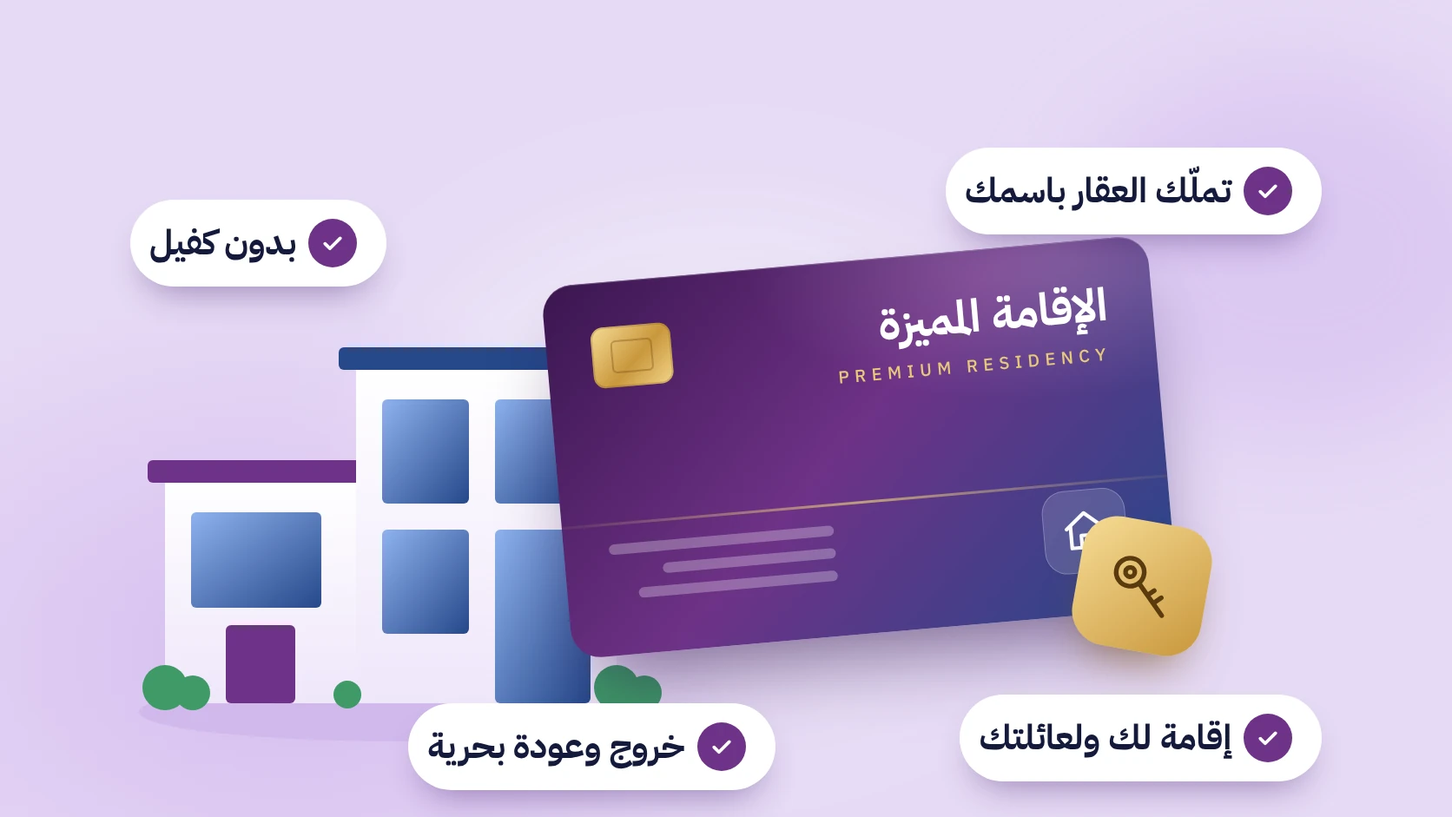
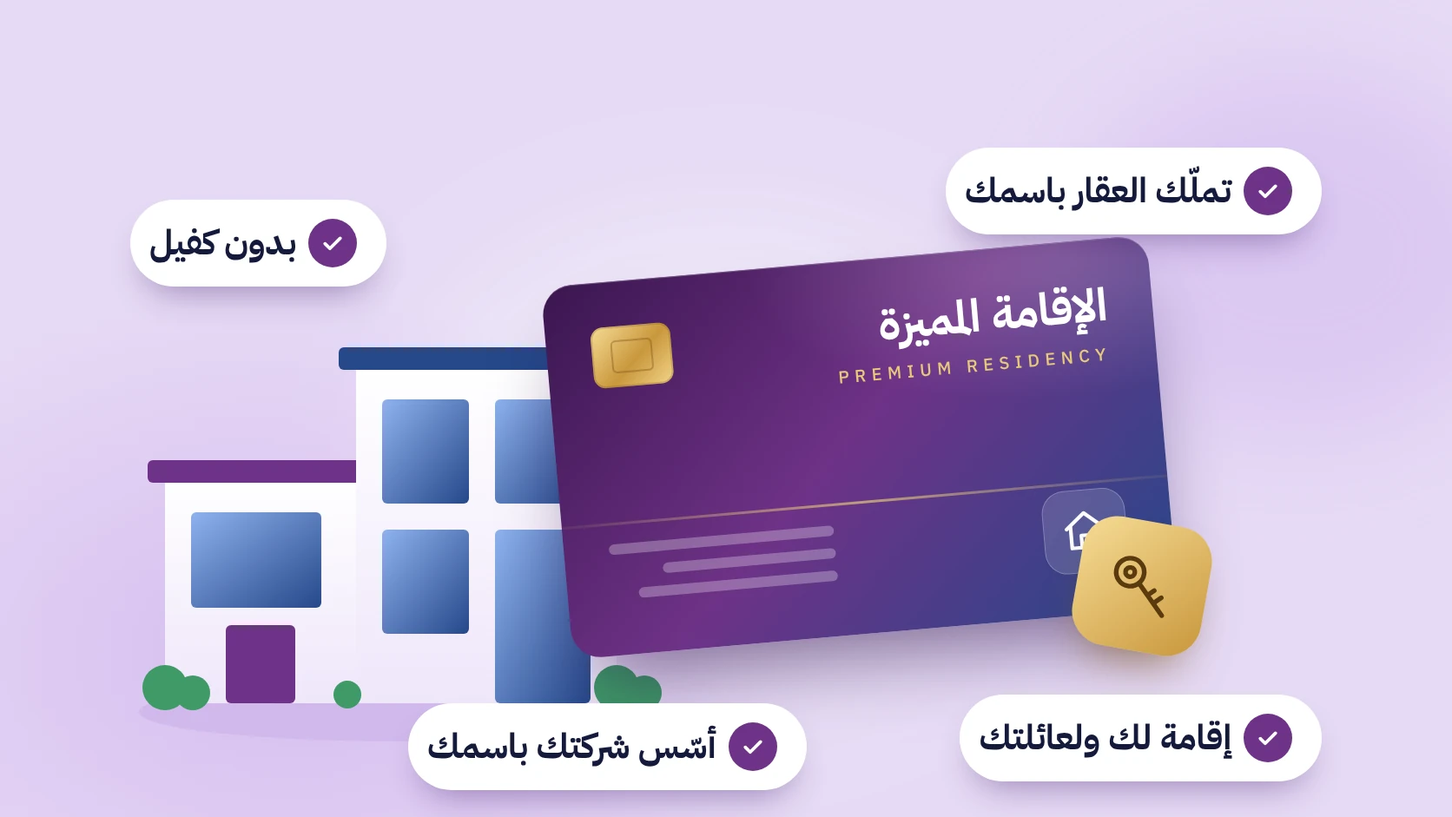
Premium Residency page: property ownership and company formation as residency benefits
Claude-Session: https://claude.ai/code/session_01NBvG3p8pHLfApGAyQMSkQa

Changed region(s): [[0.2799, 0.8629, 0.5598, 0.9862]]

diff --git a/pr/index.html b/pr/index.html
@@ -13,7 +13,7 @@ j=d.createElement(s),dl=l!='dataLayer'?'&l='+l:'';j.async=true;j.src=
 <title>الإقامة المميزة في السعودية لك ولعائلتك بدون كفيل | مرسى الأعمال</title>
 <link rel="preload" as="image" href="../assets/img/hero-1600.webp" media="(min-width:721px)" fetchpriority="high">
 <link rel="preload" as="image" href="../assets/img/hero-mobile.webp" media="(max-width:720px)" fetchpriority="high">
-<meta name="description" content="احصل على الإقامة المميزة في السعودية لك ولعائلتك: بدون كفيل، إعفاء من المقابل المالي للمرافقين، خروج وعودة بحرية، وتملّك العقار باسمك. تحقّق من أهليتك مجانًا.">
+<meta name="description" content="احصل على الإقامة المميزة في السعودية لك ولعائلتك: بدون كفيل، إعفاء من المقابل المالي للمرافقين، خروج وعودة بحرية، وتملّك العقار وتأسيس شركتك باسمك. تحقّق من أهليتك مجانًا.">
 <meta name="theme-color" content="#26488A">
 <link rel="icon" href="../assets/img/fav.png">
 <link rel="preconnect" href="https://fonts.googleapis.com">
@@ -781,7 +781,7 @@ body.bar-on .wa-float{opacity:1;visibility:visible;transform:none}
 @media (max-width:1000px){.pr-grid{grid-template-columns:repeat(2,minmax(0,1fr))}}
 @media (max-width:720px){.pr-grid{grid-template-columns:minmax(0,1fr);gap:12px}}
 </style>
-<script type="application/ld+json">{"@context": "https://schema.org", "@type": "FAQPage", "mainEntity": [{"@type": "Question", "name": "ما هي الإقامة المميزة في السعودية؟", "acceptedAnswer": {"@type": "Answer", "text": "نظام إقامة يمنح المقيم وعائلته الإقامة في المملكة دون كفيل، مع مزايا مثل الإعفاء من المقابل المالي للمرافقين، والخروج والعودة دون تأشيرة، وحق تملّك العقار."}}, {"@type": "Question", "name": "ما الفرق بينها وبين الإقامة العادية؟", "acceptedAnswer": {"@type": "Answer", "text": "في الإقامة العادية تحتاج إلى كفيل، وتدفع المقابل المالي عن مرافقيك، وتستخرج تأشيرة خروج وعودة لكل سفرة. أما الإقامة المميزة فتعفيك من كل ذلك، وتمنحك حرية تغيير العمل وتملّك العقار باسمك."}}, {"@type": "Question", "name": "ما مسارات الإقامة المميزة المتاحة؟", "acceptedAnswer": {"@type": "Answer", "text": "من أبرزها: إقامة مالك العقار، والإقامة غير محددة المدة (الدائمة)، والإقامة محددة المدة، إضافة إلى مسارات المستثمر ورائد الأعمال والكفاءات. يحدد مستشارك المسار الأنسب لك."}}, {"@type": "Question", "name": "هل يمكنني الحصول على الإقامة عبر شراء عقار؟", "acceptedAnswer": {"@type": "Answer", "text": "نعم، عبر مسار إقامة مالك العقار، بشرط أن يكون العقار سكنيًا مطوّرًا بقيمة لا تقل عن 4 ملايين ريال، غير مرهون، ومقيّمًا من مقيّم معتمد. وتستمر الإقامة ما دمت مالكًا للعقار."}}, {"@type": "Question", "name": "كم رسوم الإقامة المميزة؟", "acceptedAnswer": {"@type": "Answer", "text": "تختلف حسب المسار: 800 ألف ريال لمرة واحدة للإقامة غير محددة المدة، أو 100 ألف ريال سنويًا للإقامة محددة المدة، وقرابة 4 آلاف ريال لمسار مالك العقار، وفق آخر ما أعلنه مركز الإقامة المميزة."}}, {"@type": "Question", "name": "هل تشمل الإقامة أفراد عائلتي؟", "acceptedAnswer": {"@type": "Answer", "text": "نعم. تشمل الزوج/الزوجة والأبناء دون 25 عامًا والوالدين، وفق الشروط المعمول بها."}}, {"@type": "Question", "name": "هل يمكنني البدء وأنا خارج السعودية؟", "acceptedAnswer": {"@type": "Answer", "text": "نعم. نقيّم أهليتك عن بُعد من أي دولة، ونوضح لك المسار والمستندات المطلوبة قبل أي التزام."}}, {"@type": "Question", "name": "هل الموافقة مضمونة؟", "acceptedAnswer": {"@type": "Answer", "text": "قرار الموافقة لدى مركز الإقامة المميزة. دورنا أن نقيّم أهليتك بدقة، ونجهز ملفًا مكتملًا، ونتابعه حتى صدور القرار."}}]}</script>
+<script type="application/ld+json">{"@context": "https://schema.org", "@type": "FAQPage", "mainEntity": [{"@type": "Question", "name": "ما هي الإقامة المميزة في السعودية؟", "acceptedAnswer": {"@type": "Answer", "text": "نظام إقامة يمنح المقيم وعائلته الإقامة في المملكة دون كفيل، مع مزايا مثل الإعفاء من المقابل المالي للمرافقين، والخروج والعودة دون تأشيرة، وحق تملّك العقار."}}, {"@type": "Question", "name": "ما الفرق بينها وبين الإقامة العادية؟", "acceptedAnswer": {"@type": "Answer", "text": "في الإقامة العادية تحتاج إلى كفيل، وتدفع المقابل المالي عن مرافقيك، وتستخرج تأشيرة خروج وعودة لكل سفرة. أما الإقامة المميزة فتعفيك من كل ذلك، وتمنحك حرية تغيير العمل وتملّك العقار باسمك."}}, {"@type": "Question", "name": "ما مسارات الإقامة المميزة المتاحة؟", "acceptedAnswer": {"@type": "Answer", "text": "من أبرزها: إقامة مالك العقار، والإقامة غير محددة المدة (الدائمة)، والإقامة محددة المدة، إضافة إلى مسارات المستثمر ورائد الأعمال والكفاءات. يحدد مستشارك المسار الأنسب لك."}}, {"@type": "Question", "name": "هل يمكنني تملّك العقار بالإقامة المميزة؟", "acceptedAnswer": {"@type": "Answer", "text": "نعم. من أهم مزايا الإقامة المميزة حق تملّك العقار والانتفاع به في المملكة باسمك، وفق الأنظمة والمناطق المسموح بها."}}, {"@type": "Question", "name": "هل يمكنني تأسيس شركة بالإقامة المميزة؟", "acceptedAnswer": {"@type": "Answer", "text": "نعم. تمنحك الإقامة المميزة حق ممارسة الأعمال والاستثمار في المملكة وفق نظام الاستثمار، دون كفيل. ونساعدك في تأسيس شركتك بعد حصولك على الإقامة."}}, {"@type": "Question", "name": "كم رسوم الإقامة المميزة؟", "acceptedAnswer": {"@type": "Answer", "text": "تختلف حسب المسار: 800 ألف ريال لمرة واحدة للإقامة غير محددة المدة، أو 100 ألف ريال سنويًا للإقامة محددة المدة، وقرابة 4 آلاف ريال لمسار مالك العقار، وفق آخر ما أعلنه مركز الإقامة المميزة."}}, {"@type": "Question", "name": "هل تشمل الإقامة أفراد عائلتي؟", "acceptedAnswer": {"@type": "Answer", "text": "نعم. تشمل الزوج/الزوجة والأبناء دون 25 عامًا والوالدين، وفق الشروط المعمول بها."}}, {"@type": "Question", "name": "هل يمكنني البدء وأنا خارج السعودية؟", "acceptedAnswer": {"@type": "Answer", "text": "نعم. نقيّم أهليتك عن بُعد من أي دولة، ونوضح لك المسار والمستندات المطلوبة قبل أي التزام."}}, {"@type": "Question", "name": "هل الموافقة مضمونة؟", "acceptedAnswer": {"@type": "Answer", "text": "قرار الموافقة لدى مركز الإقامة المميزة. دورنا أن نقيّم أهليتك بدقة، ونجهز ملفًا مكتملًا، ونتابعه حتى صدور القرار."}}]}</script>
 </head>
 <body>
 <!-- Google Tag Manager (noscript) -->
@@ -823,7 +823,7 @@ height="0" width="0" style="display:none;visibility:hidden"></iframe></noscript>
       <span class="logo-img u-logo" role="img" aria-label="مرسى الأعمال Business Harbor"></span>
     </a>
     <nav class="nav" aria-label="روابط الصفحة">
-      <a href="#why">إقامة العقار</a>
+      <a href="#why">التملّك والأعمال</a>
       <a href="#steps">خطوات الإقامة</a>
       <a href="#stories">تجارب العملاء</a>
       <a href="#faq">الأسئلة الشائعة</a>
@@ -842,7 +842,7 @@ height="0" width="0" style="display:none;visibility:hidden"></iframe></noscript>
     <button class="close-btn" id="menuClose" type="button" aria-label="إغلاق القائمة"><svg class="ic"><use href="#i-close"/></svg></button>
   </div>
   <nav class="mnav-links" aria-label="روابط الصفحة">
-    <a href="#why">إقامة العقار <svg class="ic"><use href="#i-arr"/></svg></a>
+    <a href="#why">التملّك والأعمال <svg class="ic"><use href="#i-arr"/></svg></a>
     <a href="#steps">خطوات الإقامة <svg class="ic"><use href="#i-arr"/></svg></a>
     <a href="#stories">تجارب العملاء <svg class="ic"><use href="#i-arr"/></svg></a>
     <a href="#faq">الأسئلة الشائعة <svg class="ic"><use href="#i-arr"/></svg></a>
@@ -865,7 +865,7 @@ height="0" width="0" style="display:none;visibility:hidden"></iframe></noscript>
     <div class="wrap hero-in">
       <div class="hero-copy">
         <h1 id="hero-t" class="h-in a2"><span class="hero-top"><em class="hl hero-hl">حصريًا لكبار المستثمرين</em></span>انقل استثمارك إلى السعودية<span>واحصل على الإقامة المميزة</span></h1>
-        <p class="hero-desc h-in a3">إقامة لك ولعائلتك بدون كفيل، مع حق تملّك العقارات باسمك.</p>
+        <p class="hero-desc h-in a3">إقامة لك ولعائلتك بدون كفيل، مع حق تملّك العقار وتأسيس شركتك باسمك.</p>
         <div class="hero-ctas h-in a4">
           <a class="btn btn-cta js-cta" href="#" data-target="#hero-form"><svg class="ic wa-ic" viewBox="0 0 24 24"><use href="#i-wa"/></svg><span>تحقّق من أهليتك</span></a>
         </div>
@@ -911,7 +911,7 @@ height="0" width="0" style="display:none;visibility:hidden"></iframe></noscript>
       <h2 class="h2 rv d1" id="ess-t">الإقامة العادية <span class="hl">أم الإقامة المميزة؟</span></h2>
       <p class="lead rv d2">قارن بنفسك، وتعرّف على ما لن تحتاجه بعد اليوم.</p>
     </div>
-    <div class="cmp rv d2"><div class="cmp-r cmp-h"><div class="cmp-k"></div><div class="cmp-n">الإقامة العادية</div><div class="cmp-p">الإقامة المميزة</div></div><div class="cmp-r"><div class="cmp-k">الكفيل</div><div class="cmp-n"><span class="mk">&times;</span>تحتاج إلى كفيل</div><div class="cmp-p"><span class="mk"><svg class="ic"><use href="#i-check"/></svg></span>لا كفيل، أنت كفيل نفسك</div></div><div class="cmp-r"><div class="cmp-k">المقابل المالي للمرافقين</div><div class="cmp-n"><span class="mk">&times;</span>رسوم شهرية عن كل مرافق</div><div class="cmp-p"><span class="mk"><svg class="ic"><use href="#i-check"/></svg></span>معفى منه بالكامل</div></div><div class="cmp-r"><div class="cmp-k">السفر</div><div class="cmp-n"><span class="mk">&times;</span>تأشيرة خروج وعودة لكل سفرة</div><div class="cmp-p"><span class="mk"><svg class="ic"><use href="#i-check"/></svg></span>خروج وعودة دون تأشيرة</div></div><div class="cmp-r"><div class="cmp-k">تغيير العمل</div><div class="cmp-n"><span class="mk">&times;</span>يتطلب نقل الكفالة</div><div class="cmp-p"><span class="mk"><svg class="ic"><use href="#i-check"/></svg></span>حرية التنقل بين جهات العمل</div></div><div class="cmp-r"><div class="cmp-k">تملّك العقار</div><div class="cmp-n"><span class="mk">&times;</span>محدود وبشروط</div><div class="cmp-p"><span class="mk"><svg class="ic"><use href="#i-check"/></svg></span>تملّك العقار باسمك</div></div><div class="cmp-r"><div class="cmp-k">التجديد</div><div class="cmp-n"><span class="mk">&times;</span>تجديد دوري للإقامة</div><div class="cmp-p"><span class="mk"><svg class="ic"><use href="#i-check"/></svg></span>إقامة دائمة دون تجديد في المسار الدائم</div></div></div>
+    <div class="cmp rv d2"><div class="cmp-r cmp-h"><div class="cmp-k"></div><div class="cmp-n">الإقامة العادية</div><div class="cmp-p">الإقامة المميزة</div></div><div class="cmp-r"><div class="cmp-k">الكفيل</div><div class="cmp-n"><span class="mk">&times;</span>تحتاج إلى كفيل</div><div class="cmp-p"><span class="mk"><svg class="ic"><use href="#i-check"/></svg></span>لا كفيل، أنت كفيل نفسك</div></div><div class="cmp-r"><div class="cmp-k">المقابل المالي للمرافقين</div><div class="cmp-n"><span class="mk">&times;</span>رسوم شهرية عن كل مرافق</div><div class="cmp-p"><span class="mk"><svg class="ic"><use href="#i-check"/></svg></span>معفى منه بالكامل</div></div><div class="cmp-r"><div class="cmp-k">السفر</div><div class="cmp-n"><span class="mk">&times;</span>تأشيرة خروج وعودة لكل سفرة</div><div class="cmp-p"><span class="mk"><svg class="ic"><use href="#i-check"/></svg></span>خروج وعودة دون تأشيرة</div></div><div class="cmp-r"><div class="cmp-k">تغيير العمل</div><div class="cmp-n"><span class="mk">&times;</span>يتطلب نقل الكفالة</div><div class="cmp-p"><span class="mk"><svg class="ic"><use href="#i-check"/></svg></span>حرية التنقل بين جهات العمل</div></div><div class="cmp-r"><div class="cmp-k">تملّك العقار</div><div class="cmp-n"><span class="mk">&times;</span>محدود وبشروط</div><div class="cmp-p"><span class="mk"><svg class="ic"><use href="#i-check"/></svg></span>تملّك العقار باسمك</div></div><div class="cmp-r"><div class="cmp-k">ممارسة الأعمال</div><div class="cmp-n"><span class="mk">&times;</span>غير متاحة بالإقامة وحدها</div><div class="cmp-p"><span class="mk"><svg class="ic"><use href="#i-check"/></svg></span>تأسيس شركتك وممارسة أعمالك</div></div><div class="cmp-r"><div class="cmp-k">التجديد</div><div class="cmp-n"><span class="mk">&times;</span>تجديد دوري للإقامة</div><div class="cmp-p"><span class="mk"><svg class="ic"><use href="#i-check"/></svg></span>إقامة دائمة دون تجديد في المسار الدائم</div></div></div>
     <p class="pr-note rv">* تختلف بعض المزايا حسب مسار الإقامة، ووفق اشتراطات مركز الإقامة المميزة التي قد يتم تحديثها.</p>
     <div class="pr-cta rv"><a class="btn btn-cta js-cta" href="#" data-target="#contact"><svg class="ic wa-ic" viewBox="0 0 24 24"><use href="#i-wa"/></svg><span>تحدّث مع مستشار</span></a></div>
   </div>
@@ -926,7 +926,7 @@ height="0" width="0" style="display:none;visibility:hidden"></iframe></noscript>
       <h2 class="h2 rv d1" id="ben-t">ماذا تمنحك <span class="hl">الإقامة المميزة</span>؟</h2>
       <p class="lead rv d2">أهم 4 مزايا تمنحها لك الإقامة المميزة، ولا تمنحها الإقامة العادية.</p>
     </div>
-    <div class="pr-grid"><div class="why-card rv d1"><span class="pr-ic"><svg class="ic"><use href="#i-award"/></svg></span><h3>إقامة بدون كفيل</h3><p>أنت كفيل نفسك، مع حرية التنقل بين جهات العمل.</p></div><div class="why-card rv d2"><span class="pr-ic"><svg class="ic"><use href="#i-shield"/></svg></span><h3>إعفاء من المقابل المالي</h3><p>لا رسوم وافدين عليك ولا على مرافقيك وتابعيك.</p></div><div class="why-card rv d3"><span class="pr-ic"><svg class="ic"><use href="#i-bld"/></svg></span><h3>تملّك العقار باسمك</h3><p>تملّك العقار السكني والانتفاع به باسمك مباشرة.</p></div><div class="why-card rv d4"><span class="pr-ic"><svg class="ic"><use href="#i-globe"/></svg></span><h3>سفر حر لك ولعائلتك</h3><p>خروج وعودة دون تأشيرة، واستخدام مسارات المواطنين في المطارات.</p></div></div>
+    <div class="pr-grid"><div class="why-card rv d1"><span class="pr-ic"><svg class="ic"><use href="#i-award"/></svg></span><h3>إقامة بدون كفيل</h3><p>أنت كفيل نفسك، مع حرية التنقل بين جهات العمل.</p></div><div class="why-card rv d2"><span class="pr-ic"><svg class="ic"><use href="#i-bld"/></svg></span><h3>تملّك العقار باسمك</h3><p>امتلك منزلك وعقاراتك في المملكة باسمك وانتفع بها.</p></div><div class="why-card rv d3"><span class="pr-ic"><svg class="ic"><use href="#i-trend"/></svg></span><h3>أسّس شركتك ومارس أعمالك</h3><p>حق ممارسة الأعمال والاستثمار في المملكة وفق نظام الاستثمار.</p></div><div class="why-card rv d4"><span class="pr-ic"><svg class="ic"><use href="#i-life"/></svg></span><h3>عائلتك معك بلا رسوم</h3><p>إقامة للزوج والأبناء والوالدين، مع الإعفاء من المقابل المالي للمرافقين.</p></div></div>
     <div class="pr-cta rv"><a class="btn btn-cta js-cta" href="#" data-target="#contact"><svg class="ic wa-ic" viewBox="0 0 24 24"><use href="#i-wa"/></svg><span>تحقّق من أهليتك</span></a></div>
   </div>
 </section>
@@ -955,22 +955,22 @@ height="0" width="0" style="display:none;visibility:hidden"></iframe></noscript>
 <section class="sec why" id="why" aria-labelledby="why-t">
   <div class="wrap">
     <div class="why-head">
-      <div><span class="eyebrow rv">إقامة مالك العقار</span><h2 class="h2 rv d1" id="why-t">عقارك طريقك إلى <span class="hl">الإقامة المميزة</span></h2></div>
-      <p class="lead rv d2">تملّك عقارًا سكنيًا في المملكة، واحصل على الإقامة المميزة لك ولعائلتك ما دمت مالكًا له.</p>
+      <div><span class="eyebrow rv">ماذا يمكنك أن تفعل بإقامتك؟</span><h2 class="h2 rv d1" id="why-t">مع الإقامة المميزة <span class="hl">تملّك وأسّس باسمك</span></h2></div>
+      <p class="lead rv d2">الإقامة المميزة لا تمنحك حق الإقامة فقط، بل تفتح لك باب تملّك العقار وتأسيس شركتك وممارسة أعمالك في المملكة.</p>
     </div>
     <div class="bento">
       <div class="wf rv">
         <div class="wf-txt">
-          <h3>امتلك عقارك في السعودية.<span>واحصل على إقامتك المميزة.</span></h3>
-          <p>مسار يربط إقامتك بعقارك: تملّك منزلك في المملكة، واستقر فيه أنت وعائلتك بمزايا الإقامة المميزة.</p>
+          <h3>إقامتك المميزة.<span>بوابتك للتملّك وتأسيس أعمالك.</span></h3>
+          <p>بمجرد حصولك على الإقامة المميزة، يصبح من حقك تملّك العقار وتأسيس شركتك في المملكة باسمك، دون كفيل أو شريك محلي.</p>
         </div>
-        <img class="wf-img" src="../assets/img/why-pr.webp" width="1672" height="941" alt="الإقامة المميزة وتملّك العقار: بدون كفيل، إقامة لك ولعائلتك، خروج وعودة بحرية" loading="lazy" decoding="async">
+        <img class="wf-img" src="../assets/img/why-pr.webp" width="1672" height="941" alt="الإقامة المميزة: تملّك العقار وتأسيس شركتك باسمك، بدون كفيل، لك ولعائلتك" loading="lazy" decoding="async">
       </div>
       <div class="why-cards">
-        <div class="why-card rv d1"><span class="wn">01</span><h3>عقار بقيمة 4 ملايين ريال فأكثر</h3><p>عقار سكني مطوّر داخل المملكة، يحقق الحد الأدنى لقيمة مسار مالك العقار.</p></div>
-        <div class="why-card rv d2"><span class="wn">02</span><h3>غير مرهون ومُقيَّم رسميًا</h3><p>أن يكون العقار خاليًا من الرهن، ومقيّمًا من مقيّم عقاري معتمد.</p></div>
-        <div class="why-card rv d3"><span class="wn">03</span><h3>إقامة مستمرة مع ملكيتك</h3><p>تستمر إقامتك وإقامة عائلتك ما دام العقار مملوكًا لك.</p></div>
-        <div class="why-card rv d4"><span class="wn">04</span><h3>نرافقك من العقار حتى الإقامة</h3><p>نساعدك في اختيار العقار المناسب، ونجهز ملفك ونتابعه حتى صدور إقامتك.</p></div>
+        <div class="why-card rv d1"><span class="wn">01</span><h3>تملّك العقار السكني باسمك</h3><p>امتلك منزلك في المملكة باسمك مباشرة، واستقر فيه أنت وعائلتك.</p></div>
+        <div class="why-card rv d2"><span class="wn">02</span><h3>استثمر في العقار</h3><p>تملّك العقارات والانتفاع بها في المملكة، وفق الأنظمة والمناطق المسموح بها.</p></div>
+        <div class="why-card rv d3"><span class="wn">03</span><h3>أسّس شركتك ومارس أعمالك</h3><p>حق ممارسة الأعمال والاستثمار في المملكة وفق نظام الاستثمار، دون كفيل.</p></div>
+        <div class="why-card rv d4"><span class="wn">04</span><h3>نرافقك بعد الإقامة</h3><p>بعد حصولك على الإقامة، نساعدك في اختيار عقارك وتأسيس شركتك خطوة بخطوة.</p></div>
       </div>
     </div>
     <div class="why-foot rv">
@@ -1302,11 +1302,12 @@ height="0" width="0" style="display:none;visibility:hidden"></iframe></noscript>
 <div class="qa open"><button class="q" type="button" aria-expanded="true" aria-controls="fa0">ما هي الإقامة المميزة في السعودية؟<span class="pm"><svg class="ic"><use href="#i-plus"/></svg></span></button><div class="a-wrap" id="fa0"><div class="a-in"><p class="a">نظام إقامة يمنح المقيم وعائلته الإقامة في المملكة دون كفيل، مع مزايا مثل الإعفاء من المقابل المالي للمرافقين، والخروج والعودة دون تأشيرة، وحق تملّك العقار.</p></div></div></div>
 <div class="qa"><button class="q" type="button" aria-expanded="false" aria-controls="fa1">ما الفرق بينها وبين الإقامة العادية؟<span class="pm"><svg class="ic"><use href="#i-plus"/></svg></span></button><div class="a-wrap" id="fa1"><div class="a-in"><p class="a">في الإقامة العادية تحتاج إلى كفيل، وتدفع المقابل المالي عن مرافقيك، وتستخرج تأشيرة خروج وعودة لكل سفرة. أما الإقامة المميزة فتعفيك من كل ذلك، وتمنحك حرية تغيير العمل وتملّك العقار باسمك.</p></div></div></div>
 <div class="qa"><button class="q" type="button" aria-expanded="false" aria-controls="fa2">ما مسارات الإقامة المميزة المتاحة؟<span class="pm"><svg class="ic"><use href="#i-plus"/></svg></span></button><div class="a-wrap" id="fa2"><div class="a-in"><p class="a">من أبرزها: إقامة مالك العقار، والإقامة غير محددة المدة (الدائمة)، والإقامة محددة المدة، إضافة إلى مسارات المستثمر ورائد الأعمال والكفاءات. يحدد مستشارك المسار الأنسب لك.</p></div></div></div>
-<div class="qa"><button class="q" type="button" aria-expanded="false" aria-controls="fa3">هل يمكنني الحصول على الإقامة عبر شراء عقار؟<span class="pm"><svg class="ic"><use href="#i-plus"/></svg></span></button><div class="a-wrap" id="fa3"><div class="a-in"><p class="a">نعم، عبر مسار إقامة مالك العقار، بشرط أن يكون العقار سكنيًا مطوّرًا بقيمة لا تقل عن 4 ملايين ريال، غير مرهون، ومقيّمًا من مقيّم معتمد. وتستمر الإقامة ما دمت مالكًا للعقار.</p></div></div></div>
-<div class="qa"><button class="q" type="button" aria-expanded="false" aria-controls="fa4">كم رسوم الإقامة المميزة؟<span class="pm"><svg class="ic"><use href="#i-plus"/></svg></span></button><div class="a-wrap" id="fa4"><div class="a-in"><p class="a">تختلف حسب المسار: 800 ألف ريال لمرة واحدة للإقامة غير محددة المدة، أو 100 ألف ريال سنويًا للإقامة محددة المدة، وقرابة 4 آلاف ريال لمسار مالك العقار، وفق آخر ما أعلنه مركز الإقامة المميزة.</p></div></div></div>
-<div class="qa"><button class="q" type="button" aria-expanded="false" aria-controls="fa5">هل تشمل الإقامة أفراد عائلتي؟<span class="pm"><svg class="ic"><use href="#i-plus"/></svg></span></button><div class="a-wrap" id="fa5"><div class="a-in"><p class="a">نعم. تشمل الزوج/الزوجة والأبناء دون 25 عامًا والوالدين، وفق الشروط المعمول بها.</p></div></div></div>
-<div class="qa"><button class="q" type="button" aria-expanded="false" aria-controls="fa6">هل يمكنني البدء وأنا خارج السعودية؟<span class="pm"><svg class="ic"><use href="#i-plus"/></svg></span></button><div class="a-wrap" id="fa6"><div class="a-in"><p class="a">نعم. نقيّم أهليتك عن بُعد من أي دولة، ونوضح لك المسار والمستندات المطلوبة قبل أي التزام.</p></div></div></div>
-<div class="qa"><button class="q" type="button" aria-expanded="false" aria-controls="fa7">هل الموافقة مضمونة؟<span class="pm"><svg class="ic"><use href="#i-plus"/></svg></span></button><div class="a-wrap" id="fa7"><div class="a-in"><p class="a">قرار الموافقة لدى مركز الإقامة المميزة. دورنا أن نقيّم أهليتك بدقة، ونجهز ملفًا مكتملًا، ونتابعه حتى صدور القرار.</p></div></div></div>
+<div class="qa"><button class="q" type="button" aria-expanded="false" aria-controls="fa3">هل يمكنني تملّك العقار بالإقامة المميزة؟<span class="pm"><svg class="ic"><use href="#i-plus"/></svg></span></button><div class="a-wrap" id="fa3"><div class="a-in"><p class="a">نعم. من أهم مزايا الإقامة المميزة حق تملّك العقار والانتفاع به في المملكة باسمك، وفق الأنظمة والمناطق المسموح بها.</p></div></div></div>
+<div class="qa"><button class="q" type="button" aria-expanded="false" aria-controls="fa4">هل يمكنني تأسيس شركة بالإقامة المميزة؟<span class="pm"><svg class="ic"><use href="#i-plus"/></svg></span></button><div class="a-wrap" id="fa4"><div class="a-in"><p class="a">نعم. تمنحك الإقامة المميزة حق ممارسة الأعمال والاستثمار في المملكة وفق نظام الاستثمار، دون كفيل. ونساعدك في تأسيس شركتك بعد حصولك على الإقامة.</p></div></div></div>
+<div class="qa"><button class="q" type="button" aria-expanded="false" aria-controls="fa5">كم رسوم الإقامة المميزة؟<span class="pm"><svg class="ic"><use href="#i-plus"/></svg></span></button><div class="a-wrap" id="fa5"><div class="a-in"><p class="a">تختلف حسب المسار: 800 ألف ريال لمرة واحدة للإقامة غير محددة المدة، أو 100 ألف ريال سنويًا للإقامة محددة المدة، وقرابة 4 آلاف ريال لمسار مالك العقار، وفق آخر ما أعلنه مركز الإقامة المميزة.</p></div></div></div>
+<div class="qa"><button class="q" type="button" aria-expanded="false" aria-controls="fa6">هل تشمل الإقامة أفراد عائلتي؟<span class="pm"><svg class="ic"><use href="#i-plus"/></svg></span></button><div class="a-wrap" id="fa6"><div class="a-in"><p class="a">نعم. تشمل الزوج/الزوجة والأبناء دون 25 عامًا والوالدين، وفق الشروط المعمول بها.</p></div></div></div>
+<div class="qa"><button class="q" type="button" aria-expanded="false" aria-controls="fa7">هل يمكنني البدء وأنا خارج السعودية؟<span class="pm"><svg class="ic"><use href="#i-plus"/></svg></span></button><div class="a-wrap" id="fa7"><div class="a-in"><p class="a">نعم. نقيّم أهليتك عن بُعد من أي دولة، ونوضح لك المسار والمستندات المطلوبة قبل أي التزام.</p></div></div></div>
+<div class="qa"><button class="q" type="button" aria-expanded="false" aria-controls="fa8">هل الموافقة مضمونة؟<span class="pm"><svg class="ic"><use href="#i-plus"/></svg></span></button><div class="a-wrap" id="fa8"><div class="a-in"><p class="a">قرار الموافقة لدى مركز الإقامة المميزة. دورنا أن نقيّم أهليتك بدقة، ونجهز ملفًا مكتملًا، ونتابعه حتى صدور القرار.</p></div></div></div>
     </div>
   </div>
 </section>
@@ -1323,7 +1324,7 @@ height="0" width="0" style="display:none;visibility:hidden"></iframe></noscript>
       </div>
       <div>
         <h4>روابط</h4>
-        <ul><li><a href="#steps">خطوات الإقامة</a></li><li><a href="#why">إقامة العقار</a></li><li><a href="#faq">الأسئلة الشائعة</a></li><li><a href="privacy.html">سياسة الخصوصية</a></li></ul>
+        <ul><li><a href="#steps">خطوات الإقامة</a></li><li><a href="#why">التملّك والأعمال</a></li><li><a href="#faq">الأسئلة الشائعة</a></li><li><a href="privacy.html">سياسة الخصوصية</a></li></ul>
       </div>
       <div>
         <h4>فروعنا</h4>
